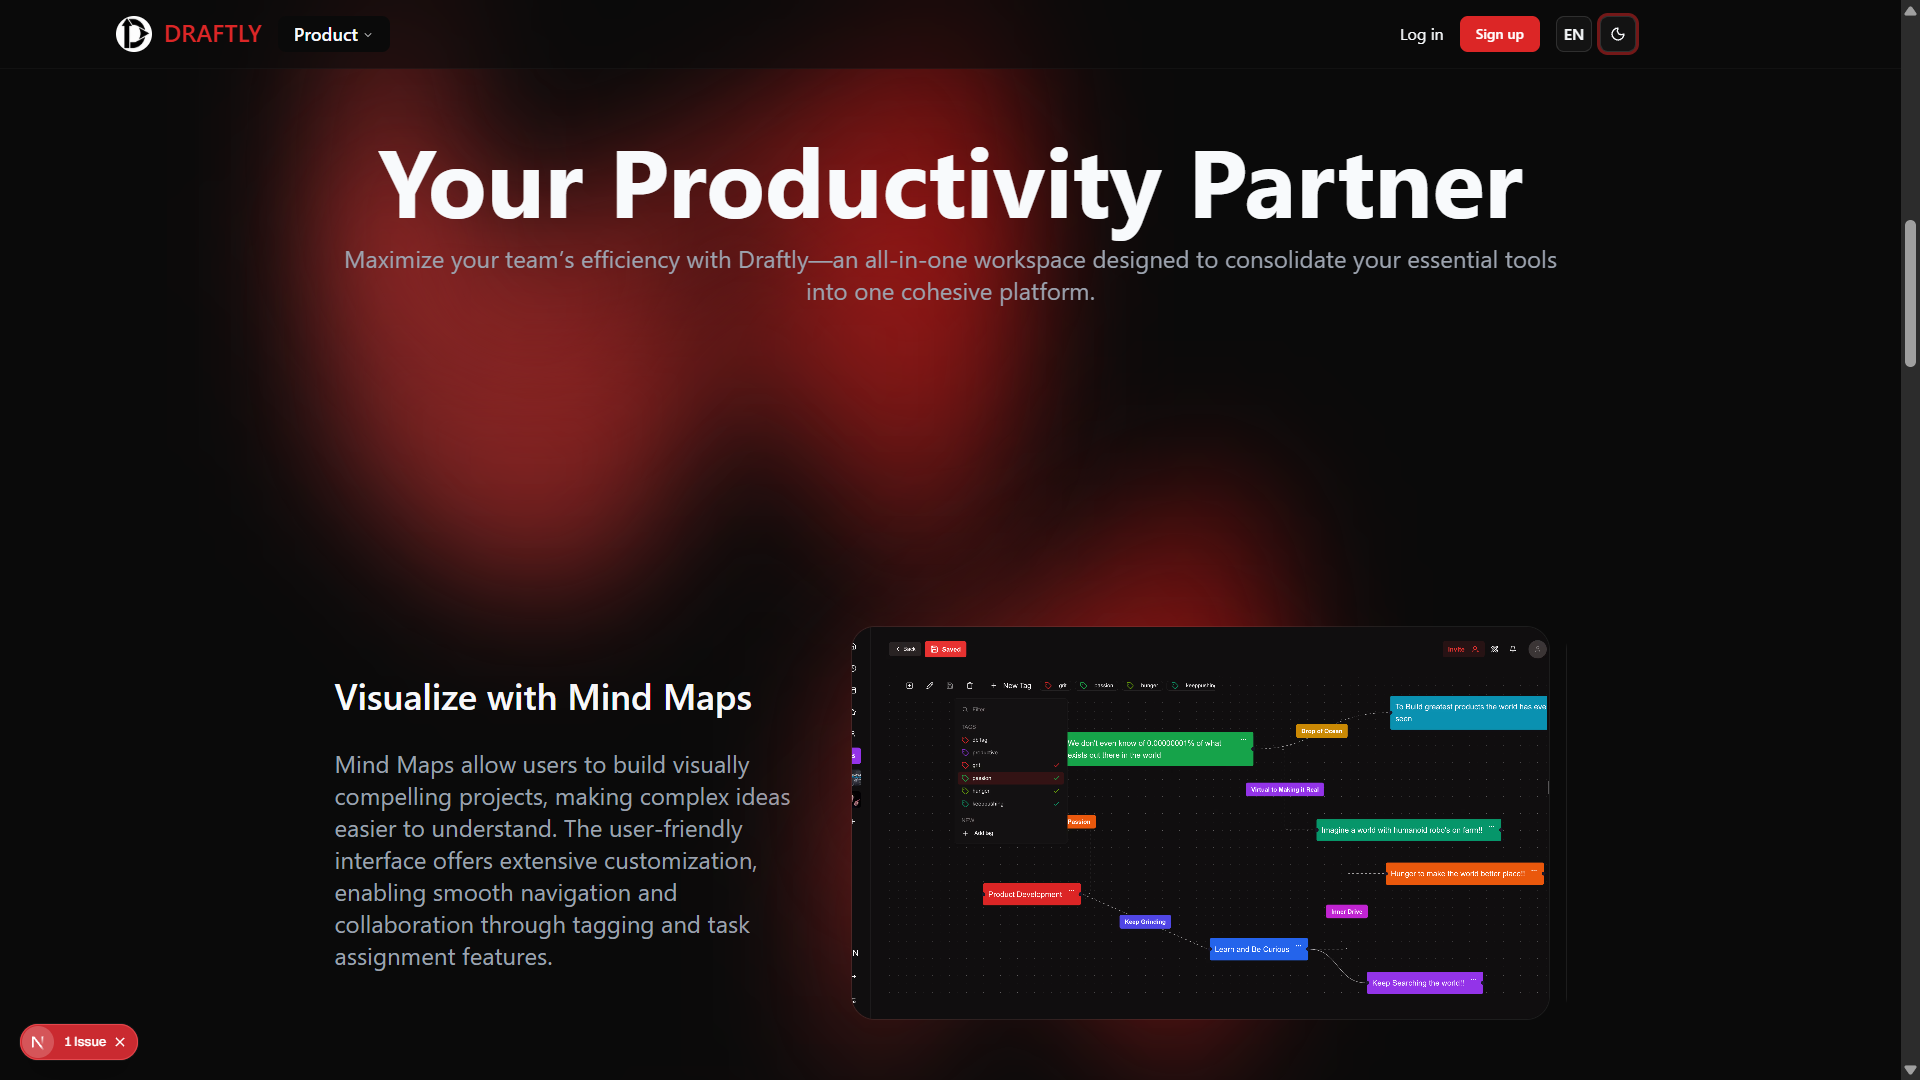
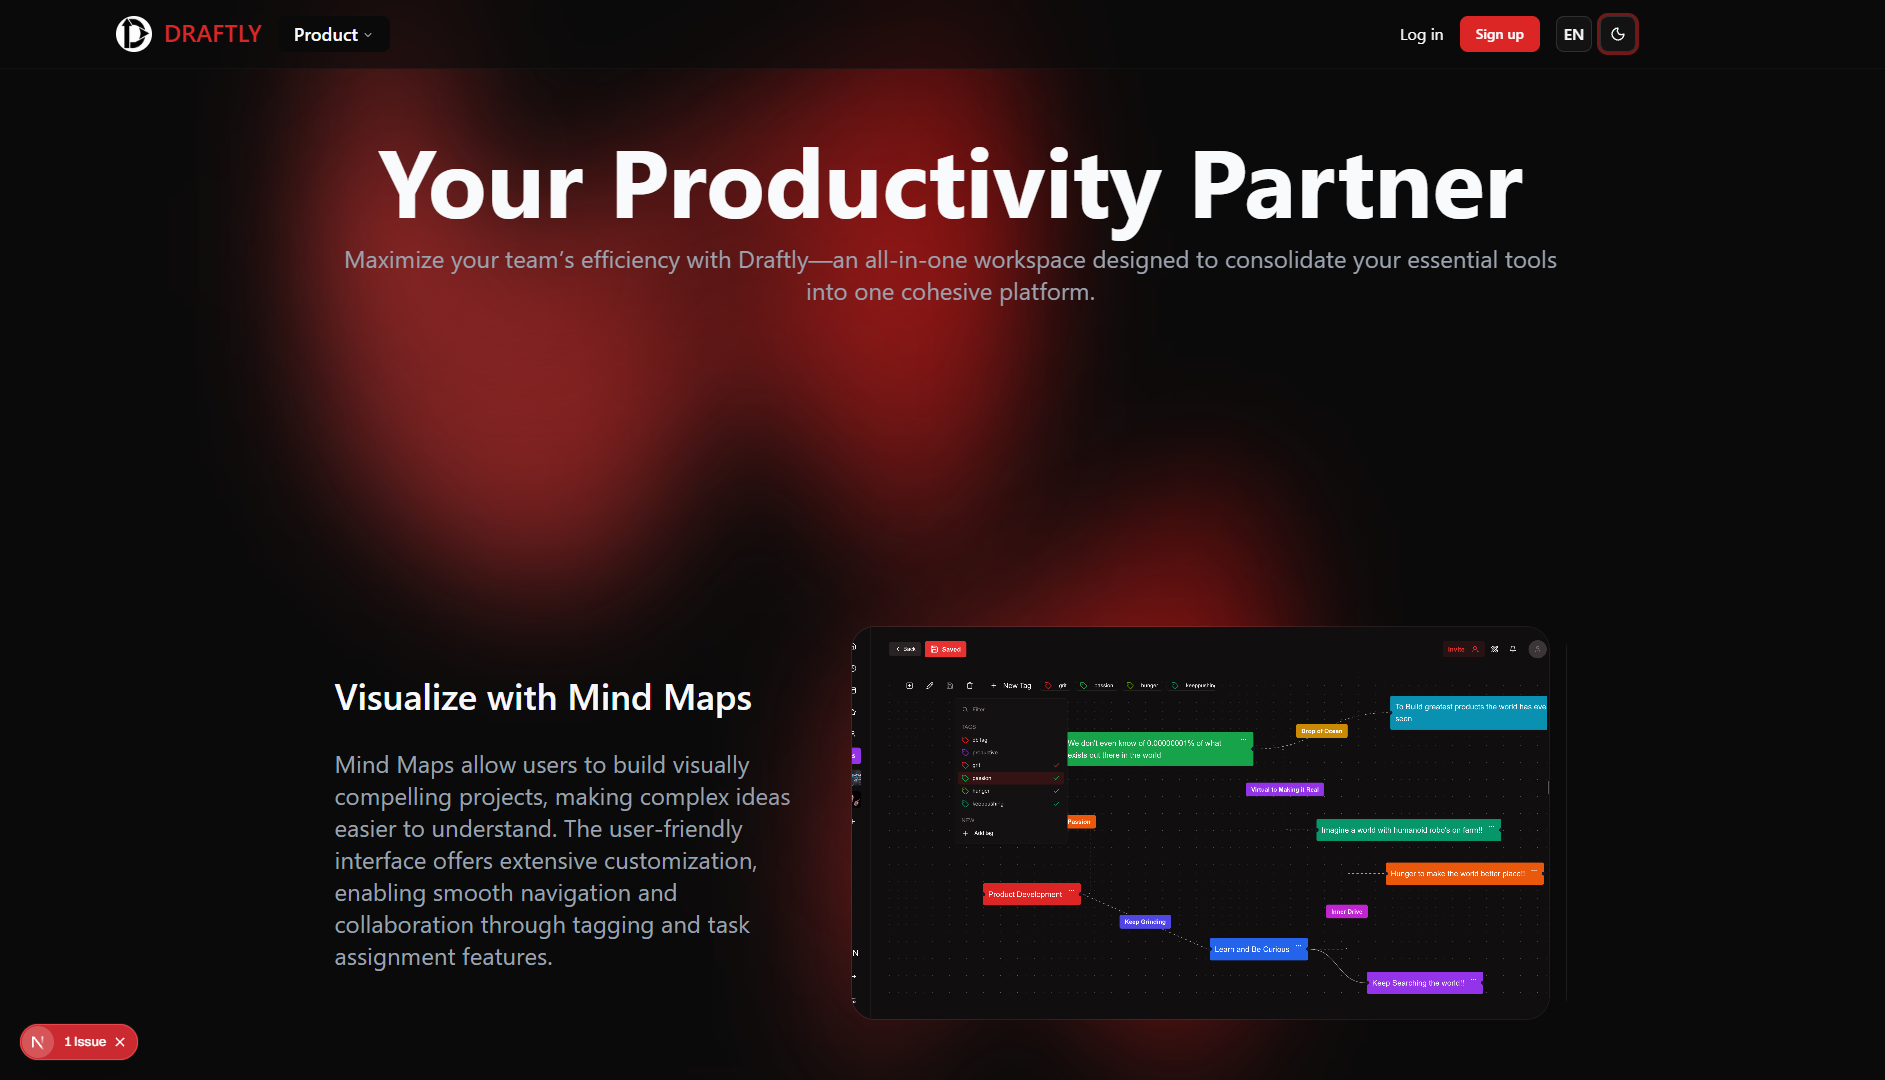
added url for Draftly & FeedBackly and hide Sidebar

diff --git a/src/pages/AllProject.jsx b/src/pages/AllProject.jsx
@@ -9,13 +9,15 @@ const projects = [
     description:
       "A modern workspace for tasks, mind maps, and productivity-focused workflows.",
     tech: ["Next.js", "Tailwind", "Shadcn UI", "Framer Motion", "TipTap", "Supabase", "Prisma","React-tanstack-query"],
+    link : "https://draftly-three.vercel.app/en"
   },
   {
-    img: "/feedbackly.png",
+    img: "/FeedBackly.png",
     title: "FeedBackly",
     description:
       "A Next.js-based application allowing users to receive anonymous feedback via shareable links.",
     tech: ["Next.js", "Tailwind", "React", "Lenis", "MongoDB"],
+    link : "https://feedbackly-seven.vercel.app/"
   },
   {
     img: "/imegino.png",

diff --git a/src/component/Project.jsx b/src/component/Project.jsx
@@ -32,6 +32,7 @@ const projects = [
     description:
       "A modern workspace for tasks, mind maps, and productivity-focused workflows.",
     tech: ["Next.js", "Tailwind", "Shadcn UI", "Framer Motion", "TipTap"],
+    link : "https://draftly-three.vercel.app/en"
   },
 ];
 

diff --git a/src/index.css b/src/index.css
@@ -23,3 +23,13 @@
 .animate-marquee-reverse {
   animation: marquee-reverse 30s linear infinite;
 }
+
+/* Hide scrollbars */
+::-webkit-scrollbar {
+  display: none;
+}
+
+* {
+  scrollbar-width: none;
+  -ms-overflow-style: none;
+}
